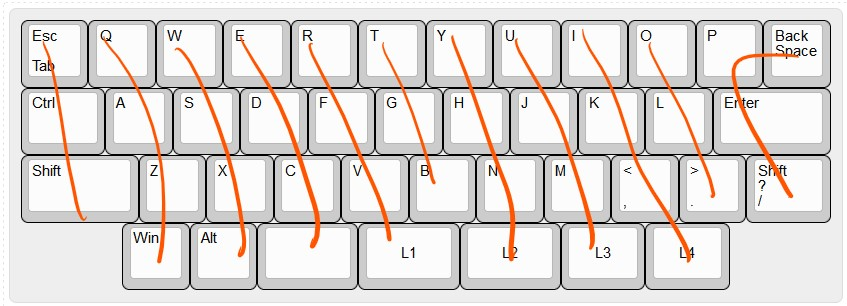
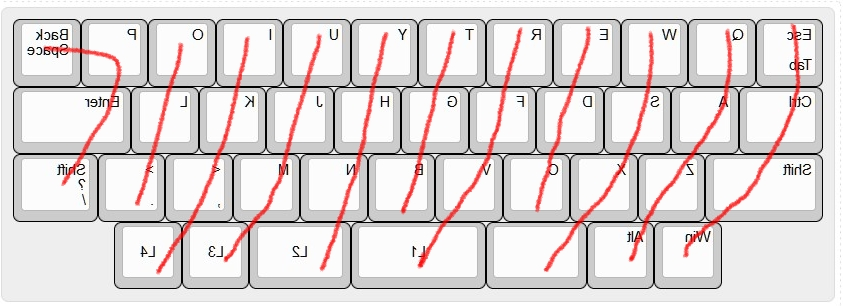
Updating layouts/wiring diagram, README

diff --git a/README.md b/README.md
@@ -1,9 +1,9 @@
 # Byhand40
-Handwired 40% based on the Pi Pico, running KMK firmware
+Handwired 40% based on the [Pi Pico/Pro Micro], running [KMK] firmware
 
 # Components
 [Insert Aliexpress Links if possible]
-- Pi Pico
+- [Pi Pico]
 - Copper Wire
 - IN4148 Diodes
 - 3D printed plate/case
@@ -26,6 +26,6 @@ Handwired 40% based on the Pi Pico, running KMK firmware
 
 [Keyboard Layout Editor](https://keyboard-layout-editor.com/#/)
 
-- Tsangan-ish 40%, tiny space and layers, Southpaw symbols/macros
+- Tsangan-ish 40%, very split space(s)
 
 
